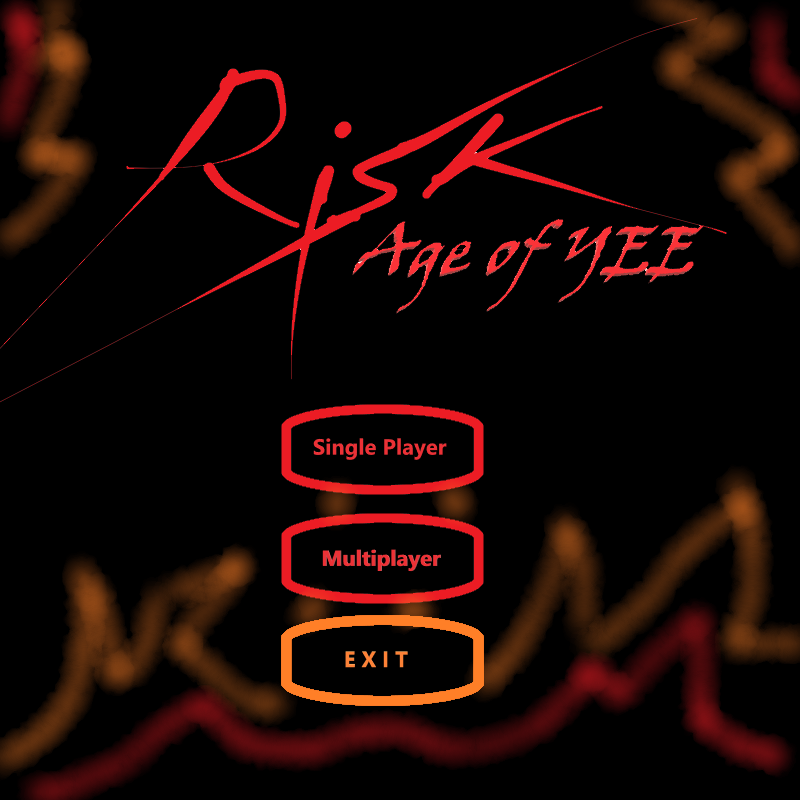
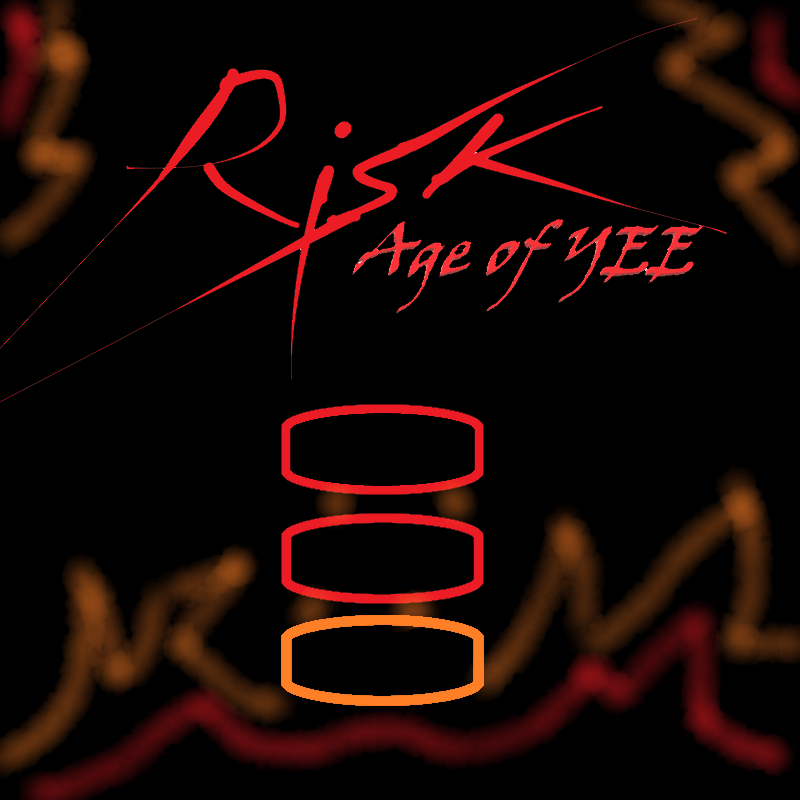
Made this crap first button work

Changed region(s): [[0.375, 0.5312, 0.5625, 0.5938], [0.4062, 0.6875, 0.5625, 0.7188], [0.4062, 0.8125, 0.5312, 0.8438]]

diff --git a/Risk/src/risk/Main.java b/Risk/src/risk/Main.java
@@ -19,9 +19,13 @@ public class Main extends JFrame implements Runnable
     public static boolean isConnecting = false;
     public static boolean isClient;
     boolean inTitleScreen=true;
-    int i=0;
     Thread relaxer;
-    Image titlescreen = Toolkit.getDefaultToolkit().getImage("./titlescreen.png");;
+    int fontSize=20;
+    boolean onFirstButton=false;
+    boolean onSecondButton=false;
+    boolean onThirdButton=false;
+    int mousePos []= new int[2];
+    Image titlescreen = Toolkit.getDefaultToolkit().getImage("./TitleScreenGothic.png");;
     sound bgSound = new sound("titlemusic.wav");
 
 
@@ -36,9 +40,9 @@ public class Main extends JFrame implements Runnable
         frame.setResizable(true);
     }    
     public void MouseMove(MouseEvent e){
-         i++;
                 int x = e.getX();
                 int y= e.getY();    
+                System.out.println(x + "   " + y);
                 if(/*first button*/(x>280&x<483&&y>412&&y<487)|| 
                    /*second button*/(x>280&&x<483 && y>520 && y<595)||
                    /*third button*/(x>280 && x<483 && y>620 && y<700)){
@@ -89,7 +93,8 @@ public class Main extends JFrame implements Runnable
         {
             public void mouseMoved(MouseEvent e)
             {
-                
+                mousePos[0]=e.getX();
+                mousePos[1]=e.getY();
                 repaint();
             }
         });
@@ -262,9 +267,19 @@ public class Main extends JFrame implements Runnable
         // background      
         g.setColor(Color.white);
         g.fillPolygon(x, y, 4);
+        if(inTitleScreen && (mousePos[0]>280&mousePos[0]<483&&mousePos[1]>412&&mousePos[1]<487)){
+            g.drawImage(titlescreen,0,0,Window.WINDOW_WIDTH,Window.WINDOW_HEIGHT,this);
+            g.setFont(new Font("Viner Hand ITC", Font.ROMAN_BASELINE, fontSize));
+            g.setColor(Color.white);
+            g.drawString("Singleplayer", 320, 450);
+        }
+        else if(inTitleScreen){
+            g.drawImage(titlescreen,0,0,Window.WINDOW_WIDTH,Window.WINDOW_HEIGHT,this);
+            g.setFont(new Font("Viner Hand ITC", Font.ROMAN_BASELINE, fontSize));
+            g.setColor(Color.red);
+            g.drawString("Singleplayer", 320, 450);
+        }
         
-        g.drawImage(titlescreen,0,0,Window.WINDOW_WIDTH,Window.WINDOW_HEIGHT,this);
-           
         
         if (!gameStarted)
         {
@@ -377,6 +392,7 @@ public class Main extends JFrame implements Runnable
         }
         relaxer = null;
     }
+    
     
 
 
